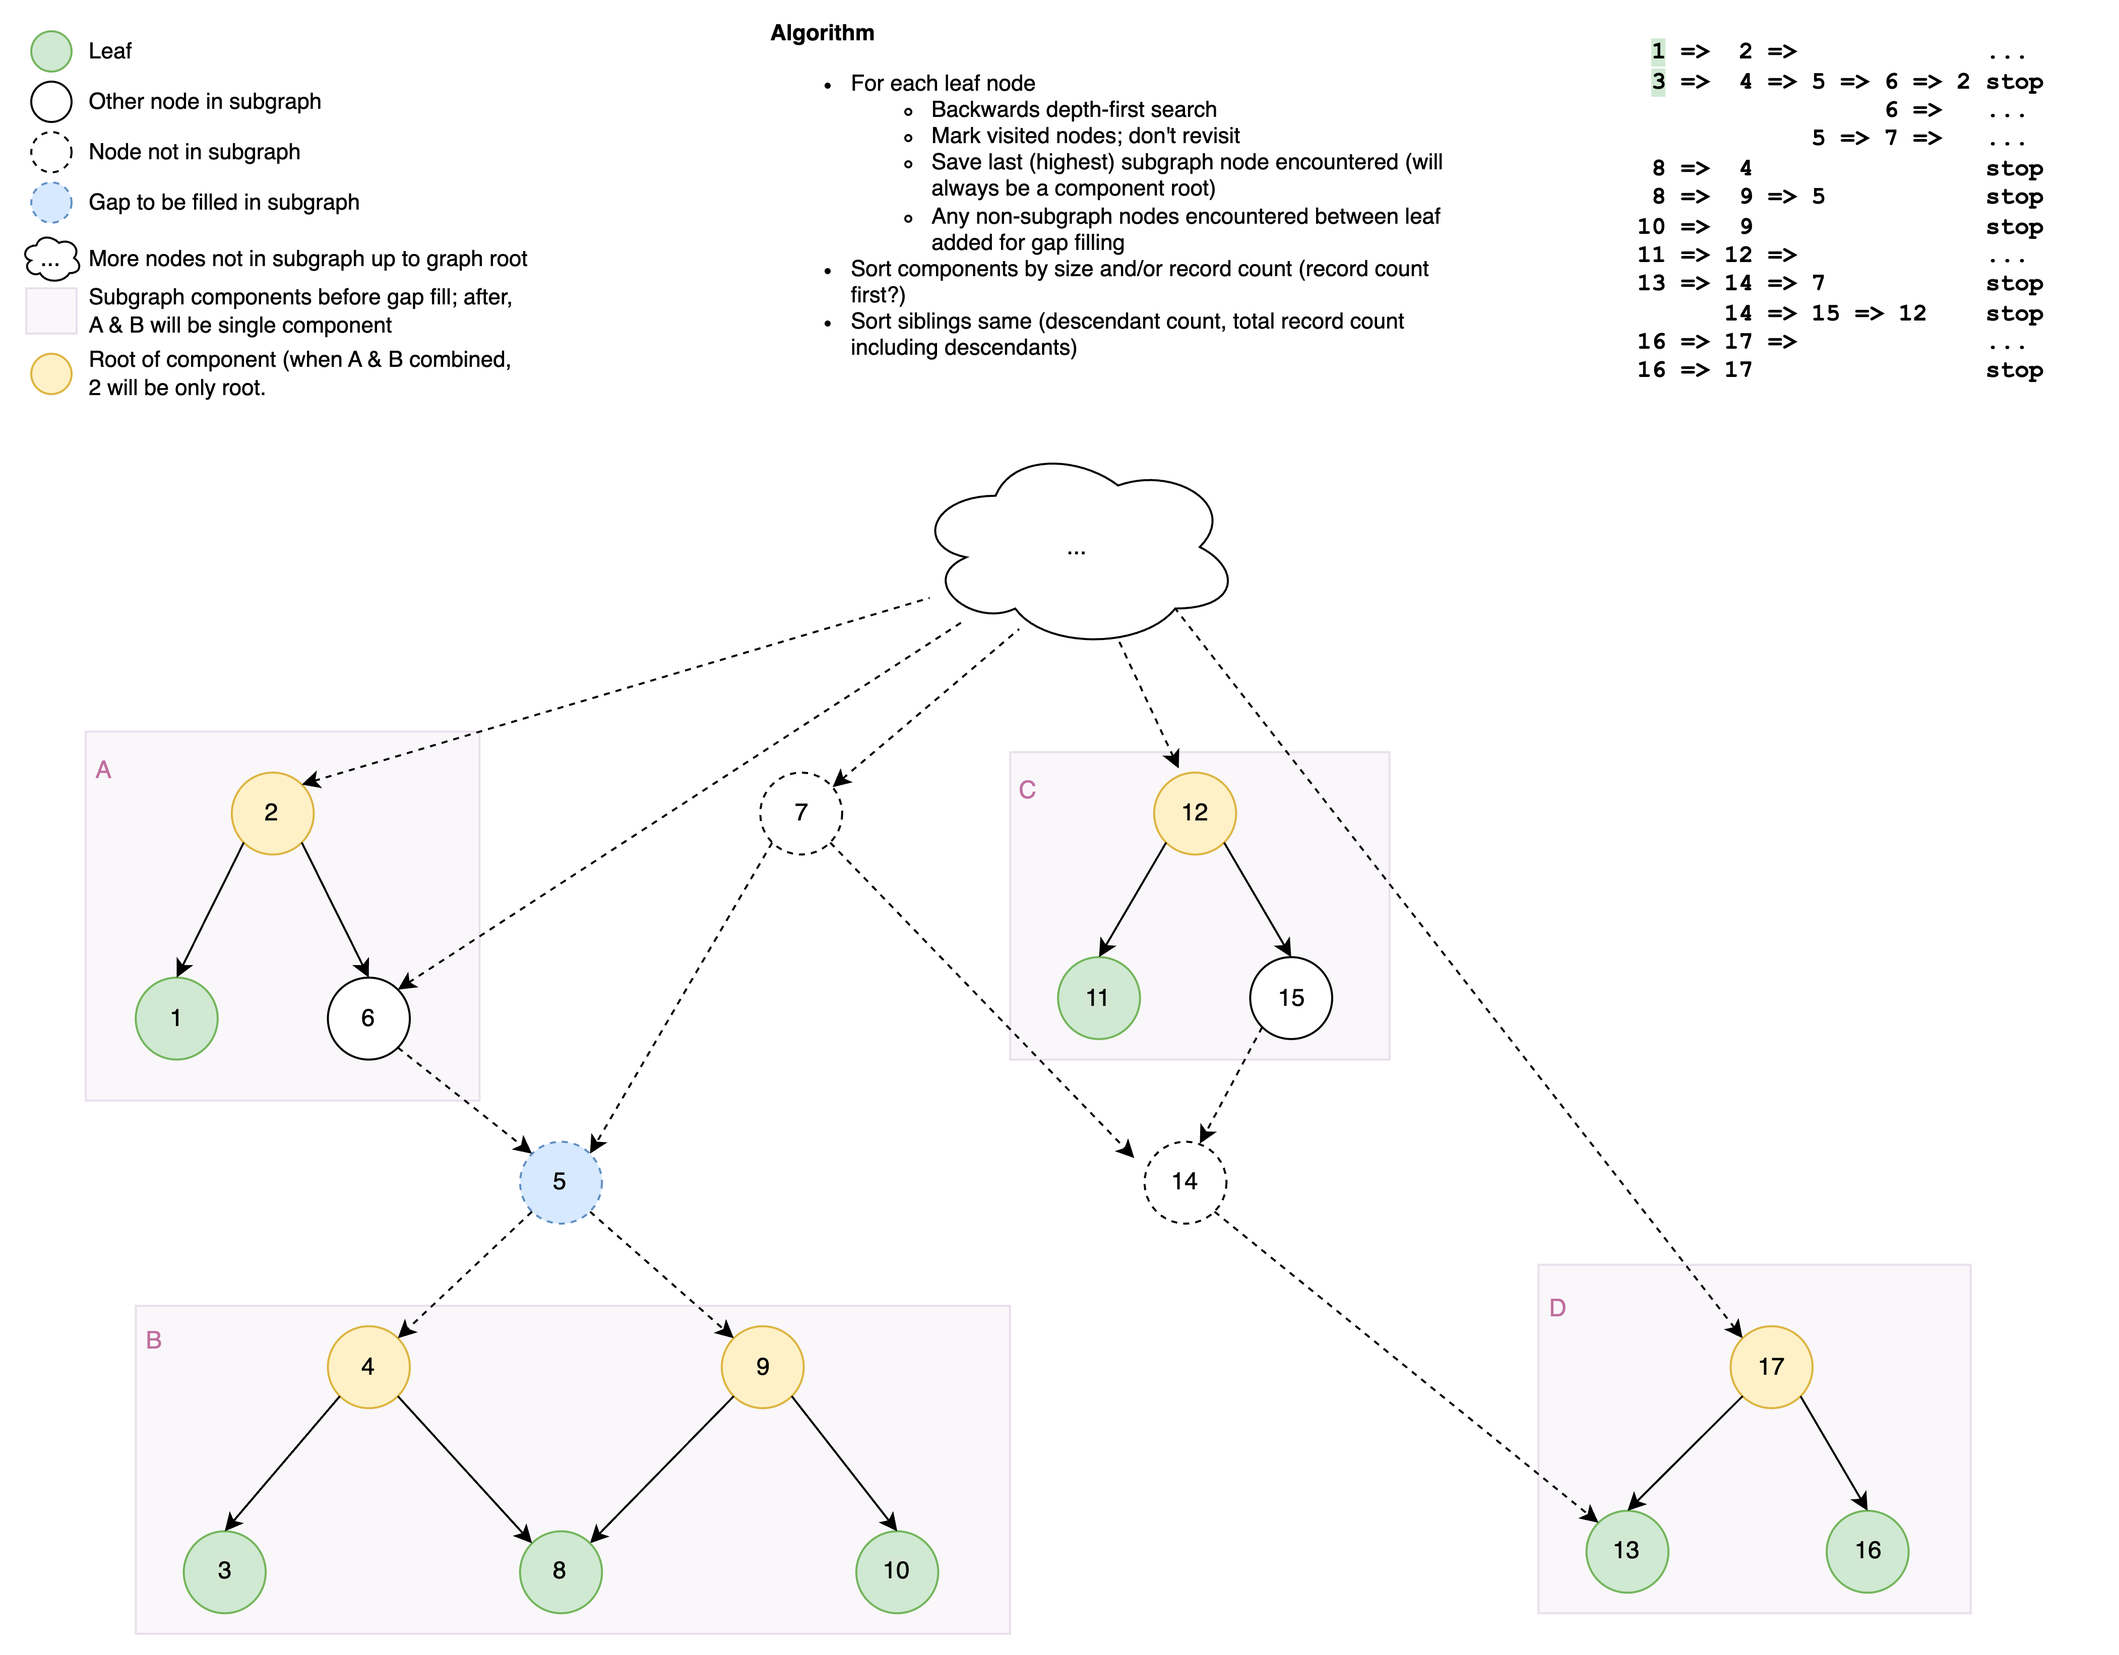
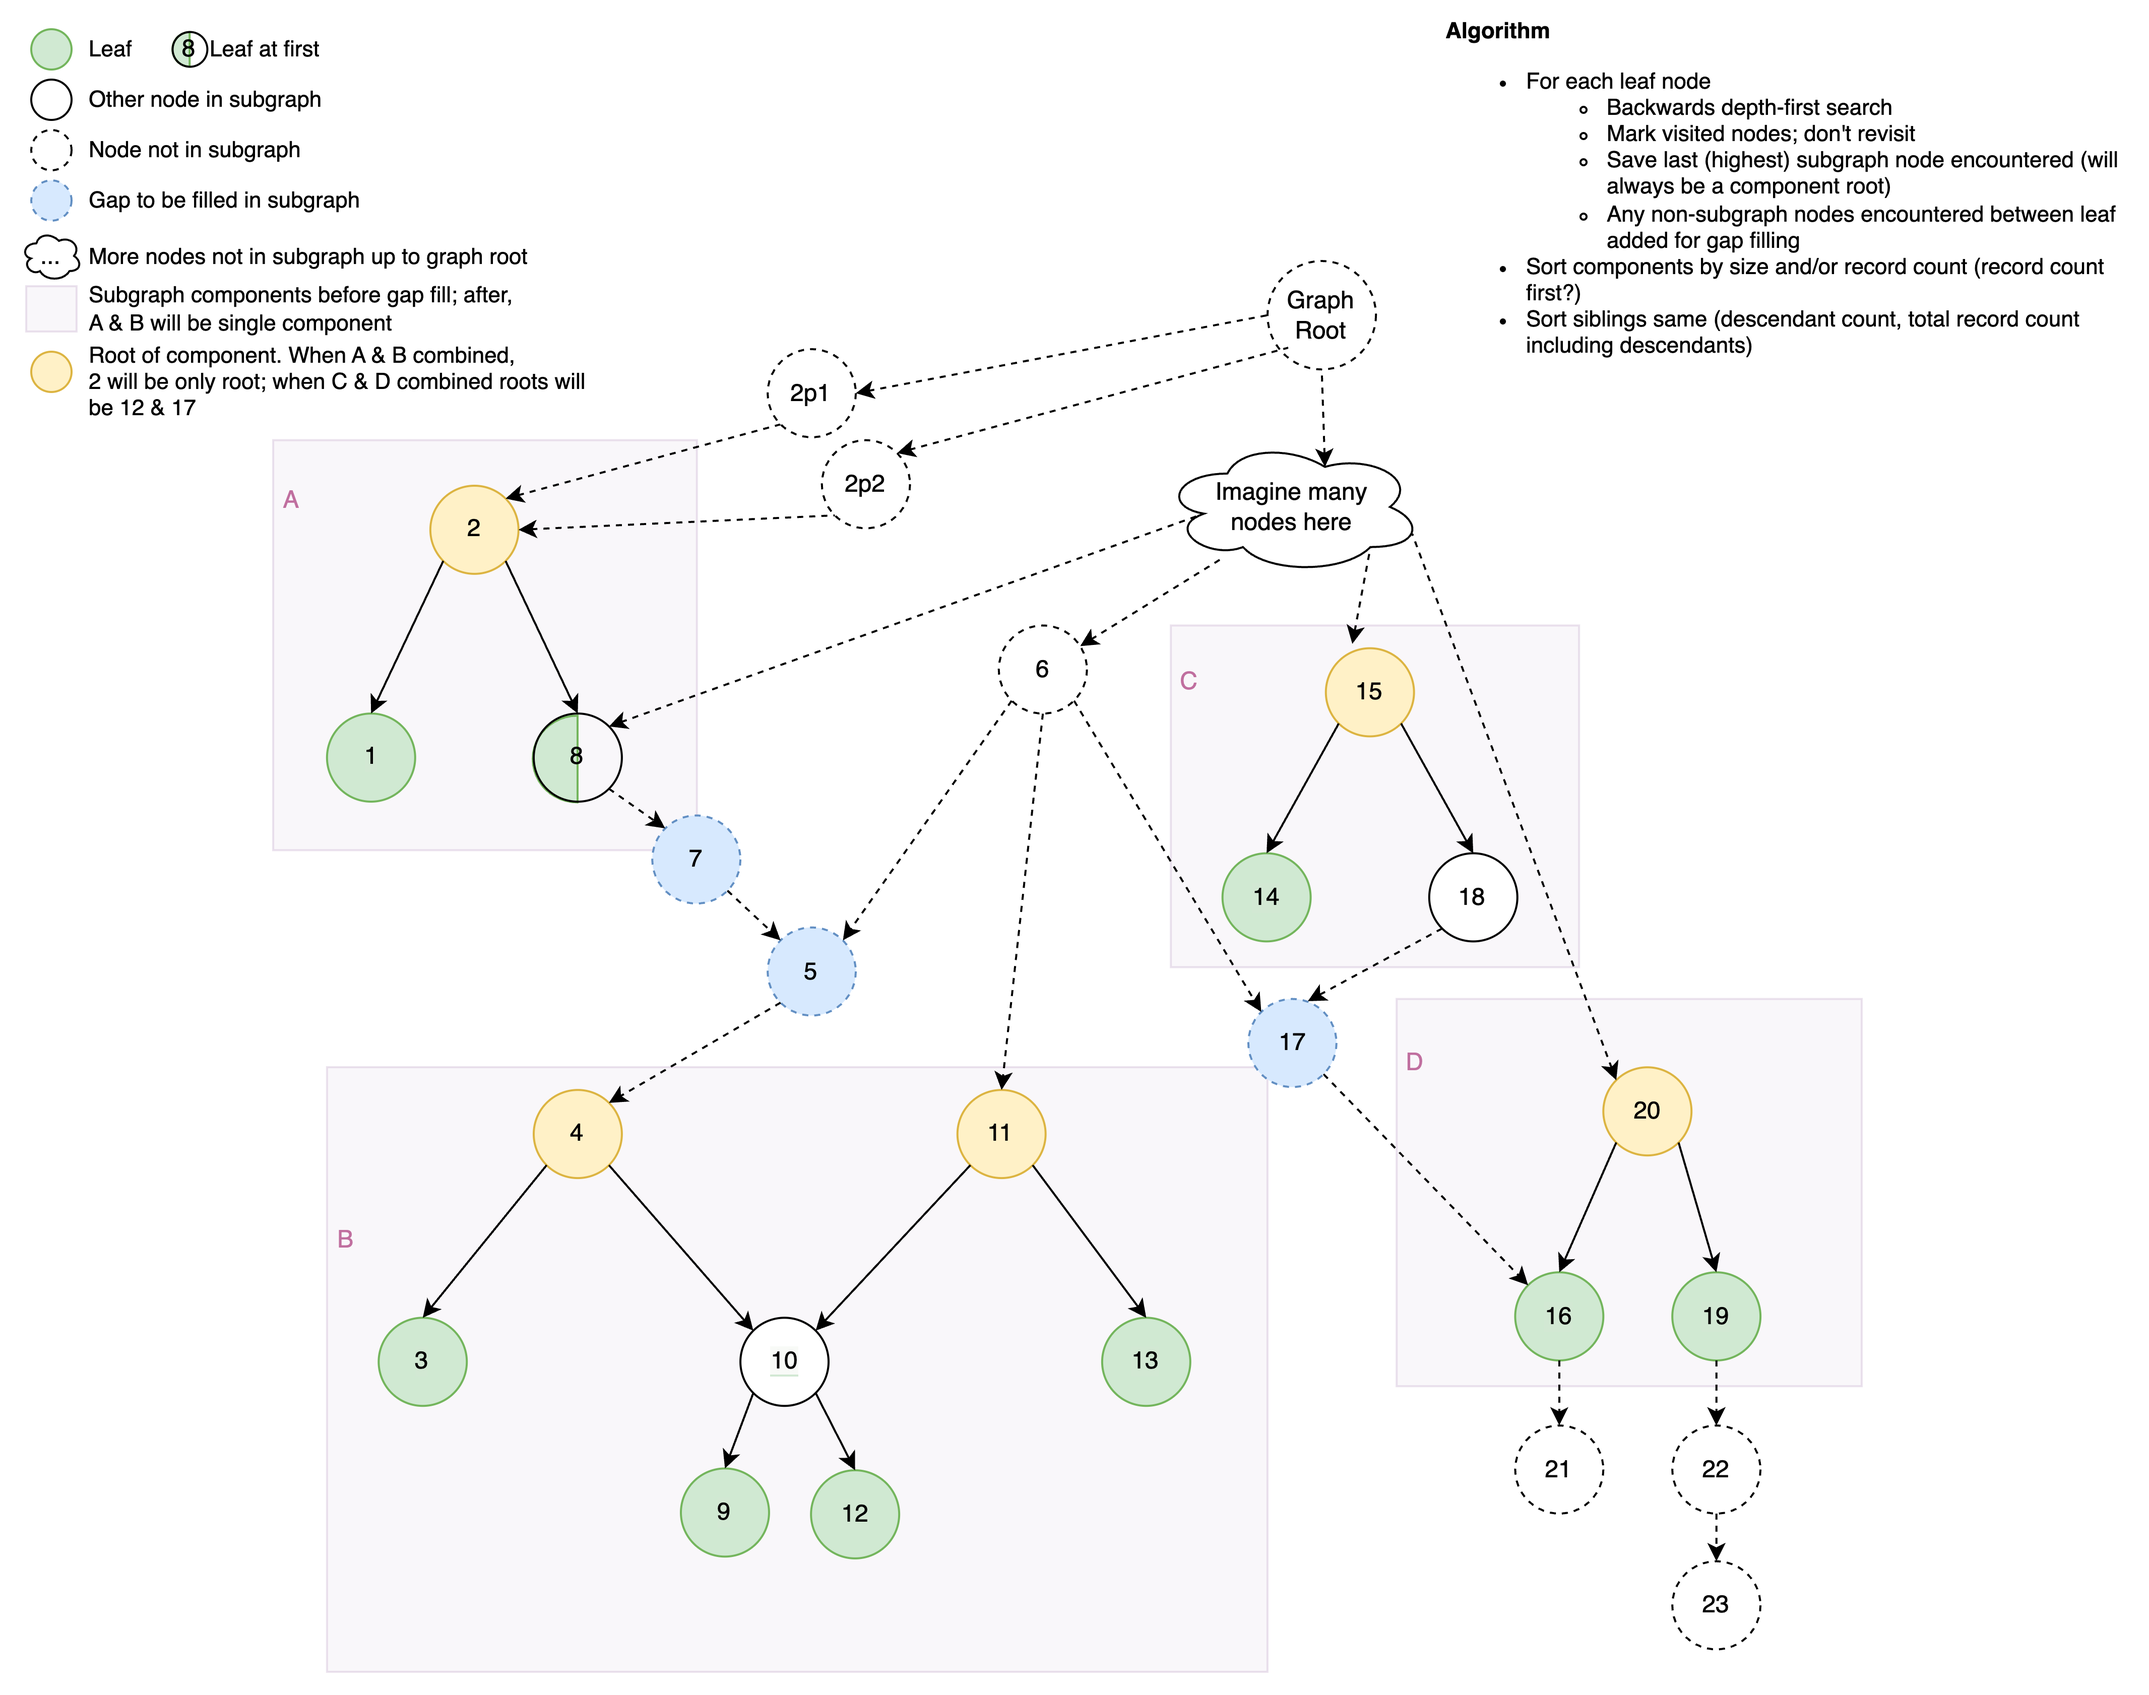
- Replaced get_missing_in_between_nodes with algorithm that works, at   least with our test data (based on the gap-filling-algorithm diagram) - Minor changes to diagram (added 21, 22, 23 as nodes to be ignored) - Changes to tst_graph_code() to make it easier to understand and to   make get_missing_i

diff --git a/backend/routes/graph.py b/backend/routes/graph.py
@@ -186,66 +186,6 @@ async def indented_concept_list_post(
         raise e
 
 
-def get_missing_in_between_nodes(G: nx.DiGraph, nodes: Iterable[Any]) -> Set[Any]:
-    """Get missing in-between nodes.
-    TODO: tell users when version is based on old vocab because connections might not be
-          there anymore, or might require paths that weren't there when it was created
-    """
-    timer = get_timer('   ')
-    nodes = set(nodes)
-
-    VERBOSE and timer('create subgraph')
-    nodes_to_connect = set()  # gets smaller as nodes are connected by ancestors
-    nodes_already_connected = set()
-    additional_nodes = set()  # nodes that will be added in order to connect nodes_to_connect
-    sg: nx.DiGraph = G.subgraph(nodes)
-
-    VERBOSE and timer('get leaves')
-    # roots = [node for node, degree in sg.in_degree() if degree == 0]
-    # TODO: Bug: leaves: 2, 4, 11, 15, and 20 included. it considers peripherals = leaf cuz non-directed
-    leaves = [node for node, degree in sg.out_degree() if degree == 0]
-    visited = set()
-    missing_in_between_nodes = set()
-
-    # TODO: Broken: test case results in 0 missing_in_between_nodes
-    def backwards_dfs(G: nx.DiGraph, source):   # depth first search -- but with predecessors to go toward root
-        """
-        https://chat.openai.com/share/d018afbc-46f6-4b57-8fdb-46578acd8de2
-        Custom DFS generator that stops the search along a path when it reaches a visited node
-
-        :param G: The graph
-        :param source: The starting node for DFS
-        :param stop_nodes: A set of nodes where the search should stop
-        :return: Yields nodes in the order they are visited
-        """
-        non_subgraph_nodes_seen = set()
-        stack = [source]
-
-        while stack:
-            node = stack.pop()
-            if node not in visited:
-                if node in sg:
-                    # TODO: fix case where we visit 7, finish it and its parents, then go down to 6, which is in the sg
-                    #  - keep track of last node looked at?
-                    if non_subgraph_nodes_seen:
-                        missing_in_between_nodes.update(non_subgraph_nodes_seen)
-                        non_subgraph_nodes_seen = set()
-                else:
-                    non_subgraph_nodes_seen.add(node)
-                # yield node   # if actually want nodes in dfs order, use this
-                visited.add(node)
-                # reverse(): doesn't matter for reality; nodes don't have natural order but helps read diagram
-                next_level_up = reversed(list(G.predecessors(node)))
-                stack.extend(next_level_up)  # Add predecessors in reverse order for DFS
-
-    VERBOSE and timer('get missing nodes by doing backwards dfs')
-    for leaf in leaves:
-        backwards_dfs(G, leaf)
-
-    VERBOSE and timer('done')
-    return missing_in_between_nodes
-
-
 def get_indented_tree_nodes(sg, preferred_concept_ids=[], max_depth=3, max_children=20, small_graph_threshold=2000):
 
     def dfs(node, depth):
@@ -302,7 +242,44 @@ def get_indented_tree_nodes(sg, preferred_concept_ids=[], max_depth=3, max_child
     return tree
 
 
-nodes_from_edges = lambda edges : set(x for edge in edges for x in edge)
+def get_missing_in_between_nodes(G, subgraph_nodes):
+    missing_in_between_nodes = set()
+    missing_in_between_nodes_tmp = set()
+    sg = G.subgraph(subgraph_nodes)
+    leaves = [node for node, degree in sg.out_degree() if degree == 0]
+    visited = set()
+
+    for leaf_node in leaves:
+        # stack = [(leaf_node, iter(G.predecessors(leaf_node)))]
+        stack = [(leaf_node, list(G.predecessors(leaf_node)))]
+
+        while stack:
+            current_node, predecessors = stack[-1]
+
+            try:
+                # next_node = next(predecessors)
+                next_node = predecessors.pop(0)
+
+                if next_node not in visited:
+                    visited.add(next_node)
+
+                    if next_node not in subgraph_nodes:
+                        missing_in_between_nodes_tmp.add(next_node)
+
+                    # stack.append((next_node, iter(G.predecessors(next_node))))
+                    stack.append((next_node, list(G.predecessors(next_node))))
+            # except StopIteration:
+            except IndexError:
+                while True:
+                    n, preds = stack.pop()
+                    if n in subgraph_nodes:
+                        missing_in_between_nodes.update(missing_in_between_nodes_tmp)
+                        missing_in_between_nodes_tmp.clear()
+                        break
+                    else:
+                        missing_in_between_nodes_tmp.discard(n)
+
+    return missing_in_between_nodes
 
 
 def tst_graph_code():
@@ -310,22 +287,33 @@ def tst_graph_code():
     # - Test: Gap filling
     #   Source: depth first of https://app.diagrams.net/#G1mIthDUn4T1y1G3BdupdYKPkZVyQZ5XYR
     # test code for the above:
-    #   - edges
-    def_expansion_edges = [
-        (2, 1), (2, 8), (4, 3), (4, 10), (10, 9), (10, 12), (11, 10), (11, 13), (15, 14), (15, 18), (20, 16), (20, 19)]
-    missing_in_between_edges = [(8, 7), (7, 5), (5, 4), (18, 17), (17, 16)]
-    outside_scope_edges = [
-        ('root', '2p1'), ('2p1', 2), ('root', '2p2'), ('2p2', 2), ('root', 'cloud'), ('cloud', 8), ('cloud', 6), (6, 5),
-        (6, 11), (6, 17), ('cloud', 15), ('cloud', 20)]
-    #   - nodes
-    def_expansion_nodes: Set = nodes_from_edges(def_expansion_edges)
-    missing_in_between_nodes = {7, 5, 17}
-    # missing_in_between_nodes = def_expansion_nodes.difference(nodes_from_edges(missing_in_between_edges))  # works
-    #   - compute
-    g = nx.DiGraph(def_expansion_edges + missing_in_between_edges + outside_scope_edges)
-    #   - test
-    # TODO: Fails. get to pass
-    assert get_missing_in_between_nodes(g, def_expansion_nodes) == missing_in_between_nodes
+    # subgraph edges (from definitions and expansions)
+    # (2, 1), (2, 8), (4, 3), (4, 10), (10, 9), (10, 12), (11, 10), (11, 13), (15, 14), (15, 18), (20, 16), (20, 19),
+    # outside_scope_edges
+    # ('root', '2p1'), ('2p1', 2), ('root', '2p2'), ('2p2', 2), ('root', 'cloud'), ('cloud', 8), ('cloud', 6), (6, 5),
+    # (6, 11), (6, 17), ('cloud', 15), ('cloud', 20),
+    # missing in between edges
+    # (8, 7), (7, 5), (5, 4), (18, 17), (17, 16),
+    whole_graph_edges = [
+        ('root', '2p1'), ('2p1', 2), ('root', '2p2'), ('2p2', 2), ('root', 'cloud'),
+        (2, 1), (2, 8),
+        (8, 7), (7, 5), (5, 4), (4, 3), (4, 10), (10, 9), (10, 12),
+        ('cloud', 8), ('cloud', 6), (6, 5), (6, 11), (11, 10), (11, 13),
+        (6, 17), (17, 16),
+        ('cloud', 15), (15, 14), (15, 18), (18, 17),
+        ('cloud', 20), (20, 16), (16, 21),
+        (20, 19), (19, 22), (22, 23),
+    ]
+    G = nx.DiGraph(whole_graph_edges)
+
+    graph_nodes = set(list(range(1,21)))
+    subgraph_nodes =  graph_nodes - set([7, 5, 6, 17])
+
+    expected_missing_in_between_nodes = set([5, 7, 17])
+
+    missing_in_between_nodes = get_missing_in_between_nodes(G, subgraph_nodes)
+    assert missing_in_between_nodes == expected_missing_in_between_nodes
+    pass
 
     # - Test: tree paths:
     # G = nx.DiGraph([('a','b'), ('a','c'), ('b','d'), ('b','e'), ('c','f'), ('2', 'c'), ('1', '2'), ('1', 'a')])
